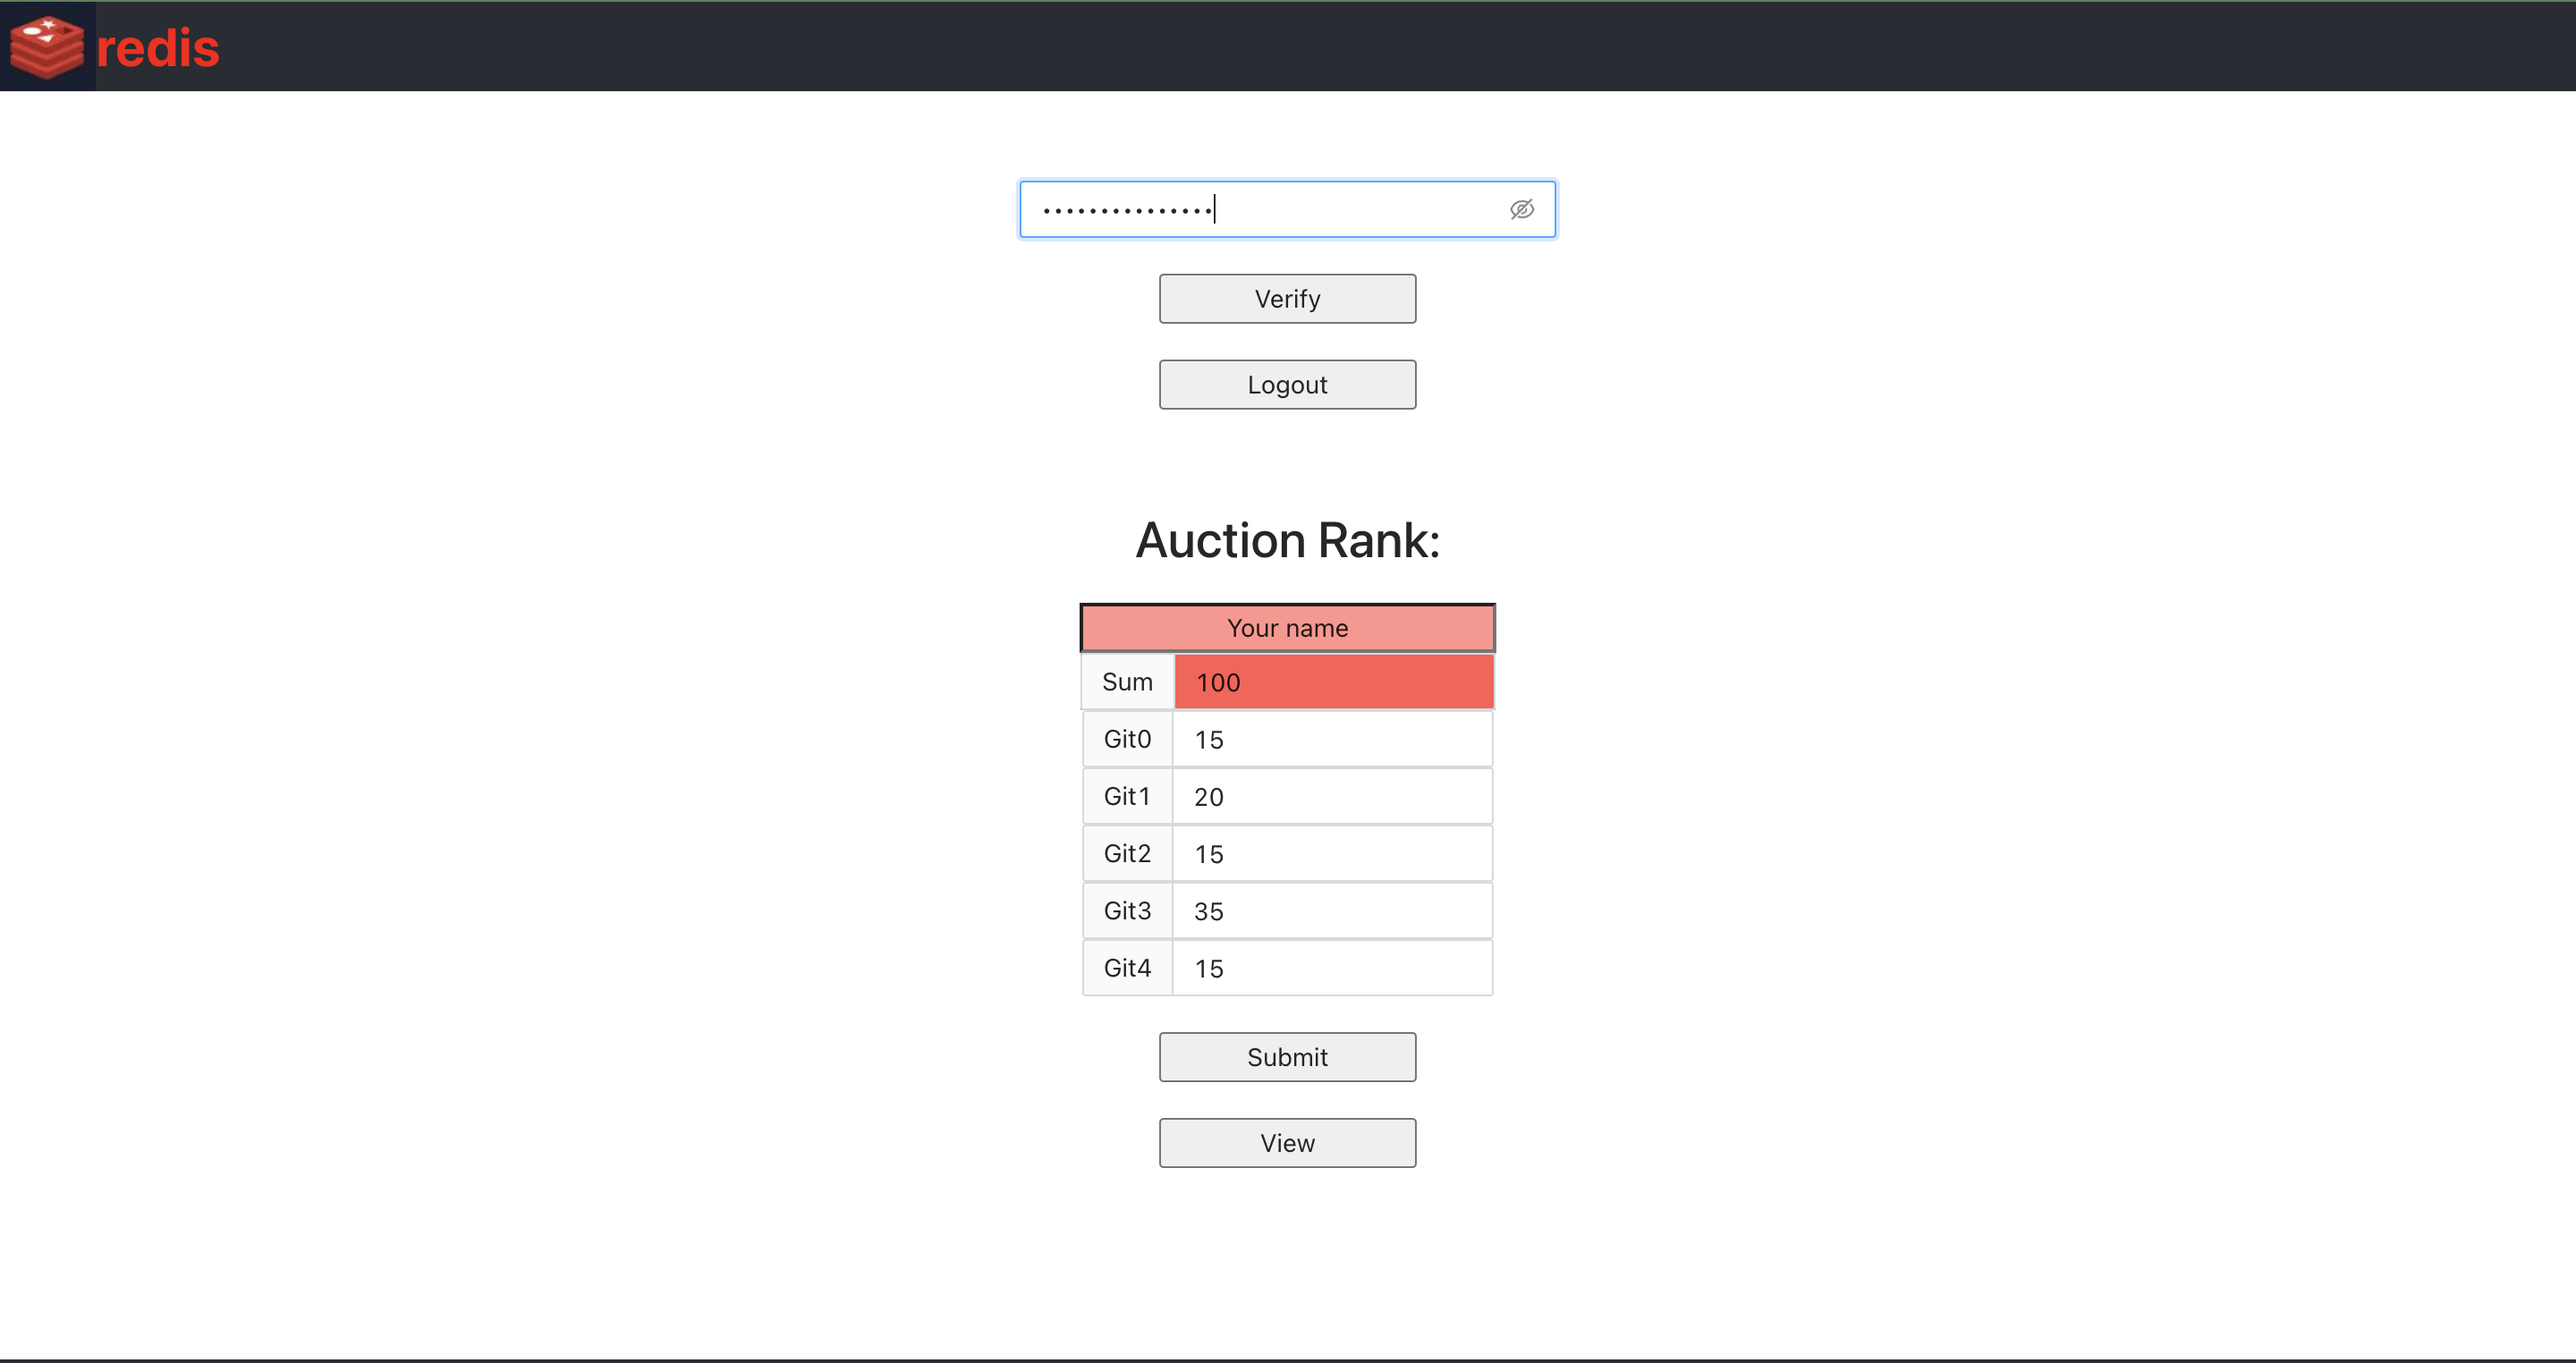
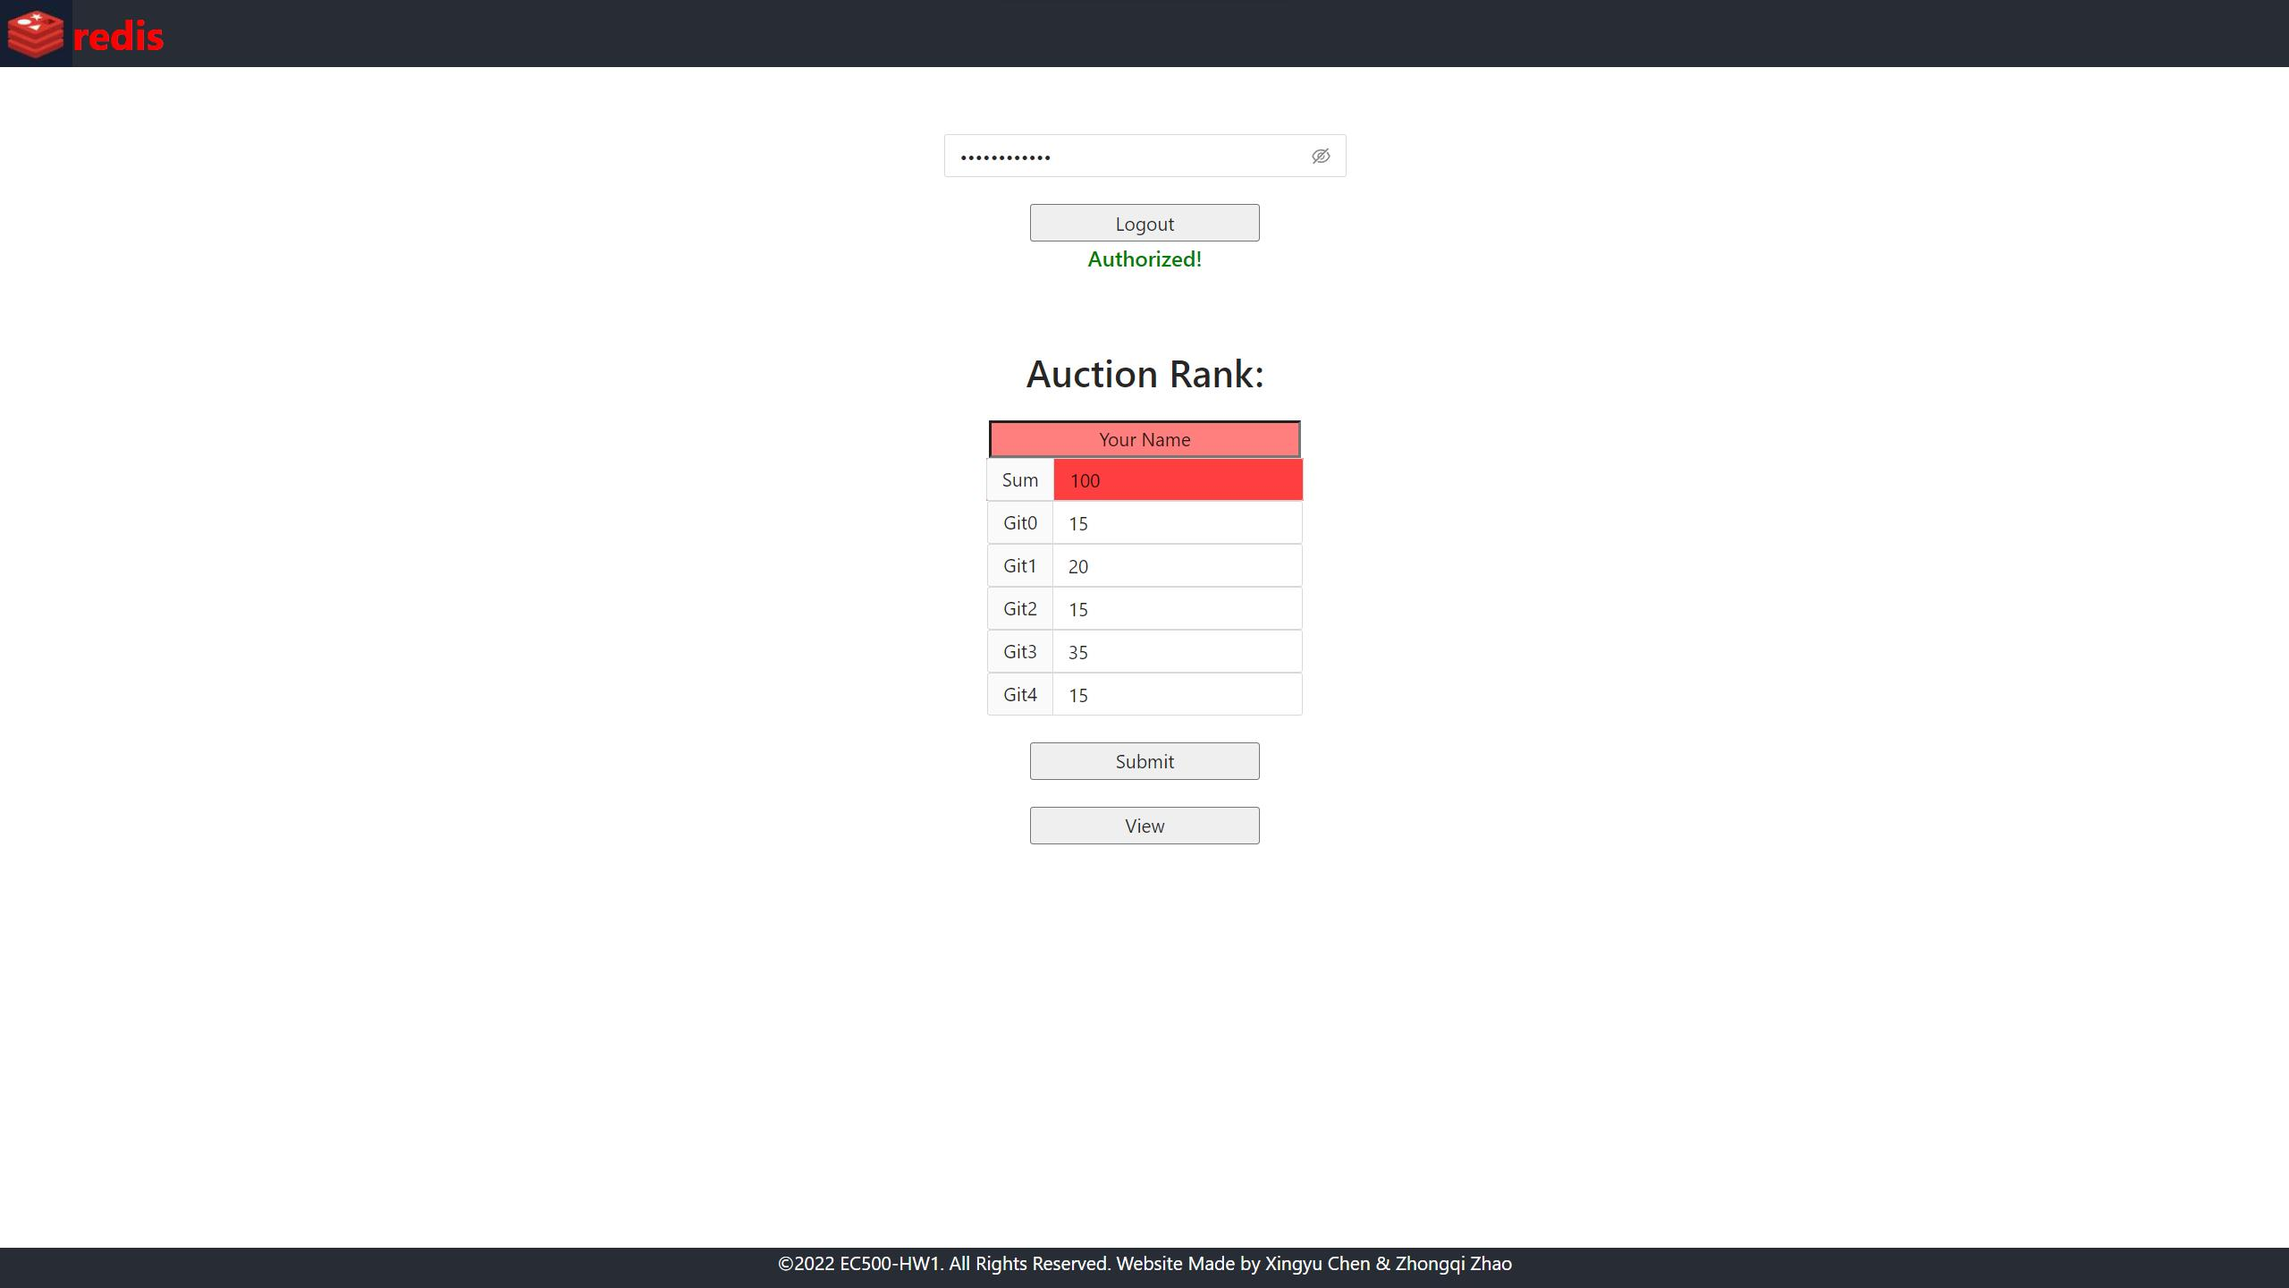
update

diff --git a/hw1/P1/src/components/InputBox.js b/hw1/P1/src/components/InputBox.js
@@ -1,4 +1,4 @@
-import React from "react";
+import React, { useState } from 'react';
 import { Input, message, InputNumber } from 'antd';
 import axios from 'axios';
 import MD5 from "./md5_lib"
@@ -12,11 +12,10 @@ function InputBox() {
      * When verify_status is: FALSE, 
      * and disable the Submit and View of the Action Rank;
      */ 
-    var verify_status;
+    const [verify_status, setVerifyStatus] = useState(false);
     var sum_status;
-    var func = function() {       
-        
-        verify_status = false;
+    var func = function() {
+
         sum_status = false;
         console.log("Verify status initialized as:", verify_status);
         console.log("Sum status initialized as:", sum_status);
@@ -56,7 +55,7 @@ function InputBox() {
         }
     }
     
-    // Verify that if the user has the authenticate to view and edit the Auction Rank;
+    // Verify that if the user has the authentication to view and edit the Auction Rank;
     const Verify = async() => {
 
         const password = document.getElementById("password").value;
@@ -78,12 +77,12 @@ function InputBox() {
                     
                     if (!response.data || response.data.length === 0) {
                         message.error('Password Incorrect');
-                        verify_status = false;
+                        setVerifyStatus(false);
                     }
                     else {
-                        message.success('Verify succeseed, Now you could edit your table!');
+                        message.success('Verify succeed!');
                         localStorage.setItem("hash_pass", hash_verify);
-                        verify_status = true;
+                        setVerifyStatus(true);
                     }
                 }
             })
@@ -94,15 +93,15 @@ function InputBox() {
     };
 
     const Logout = () => {
-        verify_status = false;
+        setVerifyStatus(false);
         message.info("Logged Out!");
     }
 
-    const Submit = async() => {
+    const Submit = () => {
         
         console.log("Sum status:", sum_status);
 
-        if (verify_status === true && sum_status === true) {
+        if (sum_status === true) {
 
             var name = document.getElementById("wiki-name");
             const hash = localStorage.getItem("hash_pass");
@@ -131,31 +130,27 @@ function InputBox() {
                     headers: { 'content-type': 'application/json'}
                 };
                 
-                await axios(opt)
+                axios(opt)
                     .then( response => {
                         console.log('Request sent to Redis: ', opt)
                         console.log(response.data)
                         if(response.status === 200) {
                             if (!response.data || response.data.length === 0) {
-                                message.error('Submit Fail');
+                                message.error('Submit Fail!');
                             }
                             else {
-                                message.success('Submit Succeed');
+                                message.success('Submit Succeed!');
                             }
 
                         }
                     })
                     .catch( error => {
                         console.log(error.message);
-                        message.error('Submit Fail');
+                        message.error('Submit Fail!');
                     })
             }
-        } 
-        else if (!verify_status) {
-            message.error("Unauthorized!");
-        }
-        else {
-            message.error("Invalid Total Score!");
+        } else {
+            message.error("Total Score must be 100!");
         }
     };
 
@@ -163,59 +158,51 @@ function InputBox() {
     // Use async..await structure to enable passing the value out from axios.
     const ViewData = async() => {
 
-        if (verify_status === true) {
+        var name = document.getElementById("wiki-name");
 
-            var name = document.getElementById("wiki-name");
-            
-            const hash = localStorage.getItem("hash_pass");
+        const hash = localStorage.getItem("hash_pass");
 
-            if (name.value === '') {
-                message.error("Name must not be empty!");
-            } else {
-                // Add 1 to flag everytime data is returned successfully
-                let flag = 0;
-                let sum = 0;
-                
-                for (var i = 0; i < 5; i++) {
-                    var command = 'HGET user:' + name.value + ' git' + i;
-                    const opt = {
-                        method: 'GET',
-                        url: REDIS_URL + '?salt=' + SALT + '&hash=' + hash + '&message=' + command,
-                        headers: { 'content-type': 'application/json'}
-                    };
-                    let score;
-                    await axios(opt)
-                        .then( response => {
-                            console.log('Request sent to Redis: ', opt)
-                            score = response.data.toLocaleString().slice(43)
-                            if(response.status === 200) {
-                                if (response.data && response.data.length !== 0) {
-                                    flag++;
-                                }
+        if (name.value === '') {
+            message.error("Name must not be empty!");
+        } else {
+            // Add 1 to flag everytime data is returned successfully
+            let flag = 0;
+            let sum = 0;
+
+            for (var i = 0; i < 5; i++) {
+                var command = 'HGET user:' + name.value + ' git' + i;
+                const opt = {
+                    method: 'GET',
+                    url: REDIS_URL + '?salt=' + SALT + '&hash=' + hash + '&message=' + command,
+                    headers: { 'content-type': 'application/json'}
+                };
+                let score;
+                await axios(opt)
+                    .then( response => {
+                        console.log('Request sent to Redis: ', opt)
+                        score = response.data.toLocaleString().slice(43)
+                        if(response.status === 200) {
+                            if (response.data && response.data.length !== 0) {
+                                flag++;
                             }
-                        })
-                        .catch( error => {
-                            console.log(error.message);
-                            message.error('View Request Fail');
-                        })
-                    console.log(score)
-                    document.getElementById("git" + i).value = score;
-                    sum += parseInt(score);
-                }
-                if (flag === 5) {
-                    message.success("View Request Succeed")
-                    document.getElementById("sum").value = sum;
-                }
-                else {
-                    message.error("View Request Fail")
-                }
+                        }
+                    })
+                    .catch( error => {
+                        console.log(error.message);
+                        message.error('View Request Fail');
+                    })
+                console.log(score)
+                document.getElementById("git" + i).value = score;
+                sum += parseInt(score);
             }
-
+            if (flag === 5) {
+                message.success("View Request Succeed")
+                document.getElementById("sum").value = sum;
+            }
+            else {
+                message.error("View Request Fail")
+            }
         }
-        else {
-            message.error("Unauthorized!");
-        }
-
     }
     
     return (
@@ -235,23 +222,40 @@ function InputBox() {
                 ]}/>
             </div>
 
-            <div>
-                <button
-                    onClick={Verify}
-                    id="verity-btn"
-                    className="verify-btn">
-                    Verify
-                </button>
-            </div>
+            {
+                verify_status ?
+                    null
+                    :
+                    <button
+                        onClick={Verify}
+                        id="verity-btn"
+                        className="verify-btn">
+                        Verify
+                    </button>
+            }
 
-            <div>
-                <button
-                    onClick={Logout}
-                    id="logout-btn"
-                    className="logout-btn">
-                    Logout
-                </button>
-            </div>
+            {
+                verify_status ?
+                    <button
+                        onClick={Logout}
+                        id="logout-btn"
+                        className="logout-btn">
+                        Logout
+                    </button>
+                    :
+                    null
+            }
+
+            {
+                verify_status ?
+                    <h1 className="authorized-message">
+                        Authorized!
+                    </h1>
+                    :
+                    <h1 className="unauthorized-message">
+                        Unauthorized!
+                    </h1>
+            }
 
             <div>
                 <h1 className="rank-title">
@@ -347,6 +351,7 @@ function InputBox() {
             <div>
                 <button
                     onClick={Submit}
+                    disabled={verify_status ? false : true}
                     id="submit-btn"
                     className="submit-btn">
                     Submit
@@ -356,6 +361,7 @@ function InputBox() {
             <div>
                 <button
                     onClick={ViewData}
+                    disabled={verify_status ? false : true}
                     id="view-btn"
                     className="view-btn">
                     View

diff --git a/hw1/P1/src/styles/InputBox.css b/hw1/P1/src/styles/InputBox.css
@@ -15,6 +15,16 @@
     background-color: rgba(255, 0, 0, 0.5);
 }
 
+.authorized-message {
+    font-size: medium;
+    color: green;
+}
+
+.unauthorized-message {
+    font-size: medium;
+    color: red;
+}
+
 .rank-title {
     margin-top: 50px;
 }
